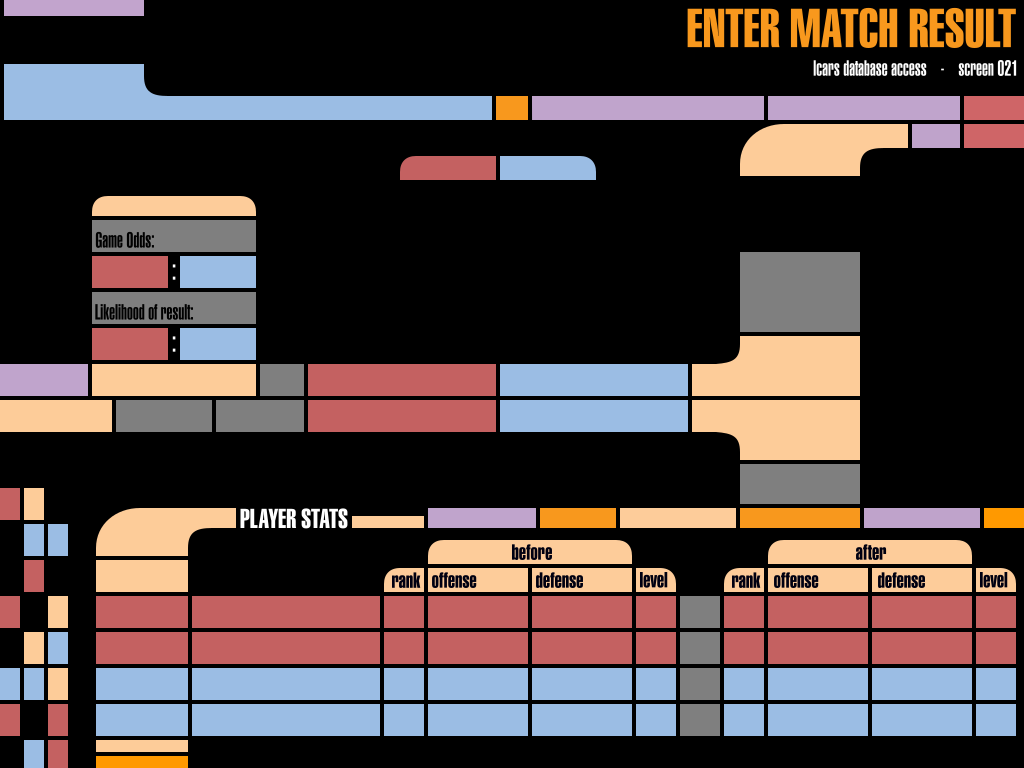
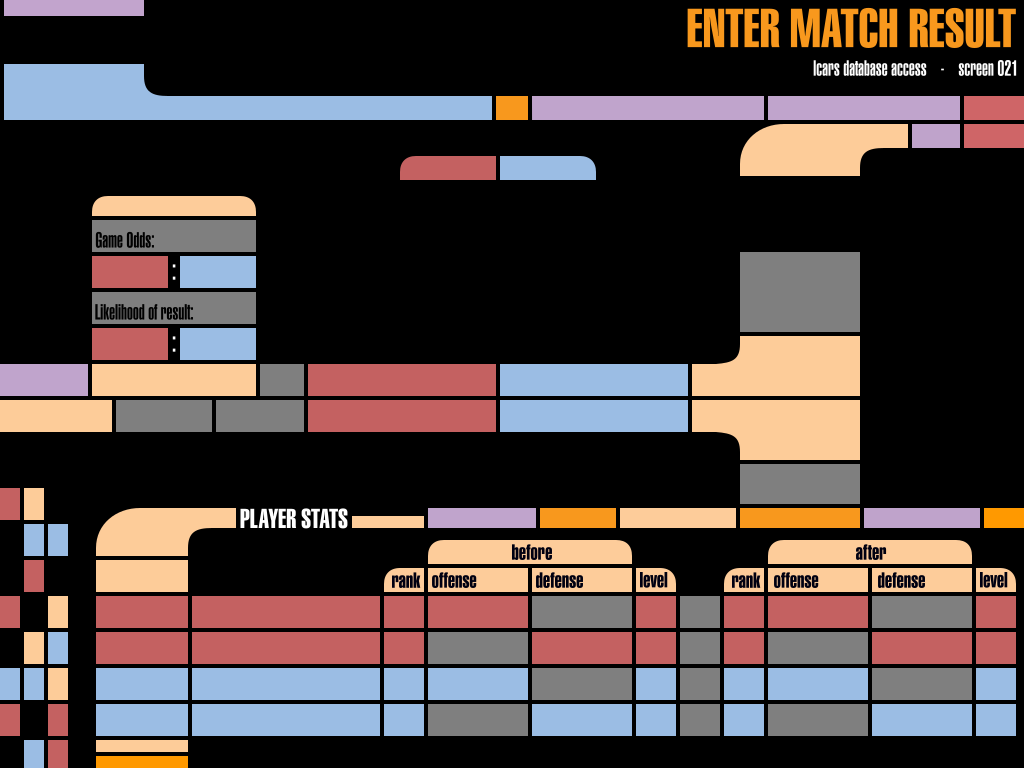
implement split-skill result screen

Changed region(s): [[0.4062, 0.75, 0.625, 0.9688], [0.75, 0.75, 0.9688, 0.9688]]

diff --git a/app/screens/enteroutcome.py b/app/screens/enteroutcome.py
@@ -9,26 +9,11 @@ from pprint import pprint
 import math
 import trueskill
 import time
-from odds import win_probability, odds_texts
+from odds import win_probability, odds_texts, findRank, playerLevel
 
 def pos(x,y):
     return (768-y-32+4, x+4)
 
-def findRank(players, player):
-    ranked = sorted(players.items(), key=lambda kv:trueskill.expose(kv[1]), reverse=True)
-    minindex = len(ranked)
-    maxindex = 0
-    i = 1
-    for name,skill in ranked:
-        if round(trueskill.expose(players[player])) == round(trueskill.expose(skill)): # since we only display rounded skill it is only fair to group by whole numbers
-            minindex = min(minindex, i)
-            maxindex = max(maxindex, i)
-        i += 1
-    if minindex==maxindex:
-        return "{}".format(minindex)
-    else:
-        return "{}-{}".format(minindex,maxindex)
-        
 
 class ScreenEnterOutcome(LcarsScreen):
     def __init__(self, team1, team2):
@@ -125,11 +110,9 @@ class ScreenEnterOutcome(LcarsScreen):
                 continue
             player = players[name]
             self.textLabels[0][j].setText(findRank(players, name))
-            self.textLabels[1][j].setText("{:.2f}/{:.2f}".format(player.mu, player.sigma))
-            self.textLabels[2][j].setText("{:.2f}/{:.2f}".format(player.mu, player.sigma))
-            self.textLabels[3][j].setText("{:d}".format(round(trueskill.expose(player))))
-            
-            
+            self.textLabels[1][j].setText("{:.2f}/{:.2f}".format(player[0].mu, player[0].sigma))
+            self.textLabels[2][j].setText("{:.2f}/{:.2f}".format(player[1].mu, player[1].sigma))
+            self.textLabels[3][j].setText("{:d}".format(round(playerLevel(player))))
         players.close()
         
         
@@ -162,7 +145,21 @@ class ScreenEnterOutcome(LcarsScreen):
 
         players = shelve.open('playerdb')
         
-        newratings = [tuple((players[x] for x in self.team1)), tuple((players[x] for x in self.team2))]
+        #newratings = [tuple((players[x] for x in self.team1)), tuple((players[x] for x in self.team2))]
+        # start with offensive players
+        newratings = [[players[self.team1[0]][0]], [players[self.team2[0]][0]]]
+        # depending on 1v1 or 2v2 add the other or the same as defense
+        if len(self.team1) > 1:
+            newratings[0].append(players[self.team1[1]][1])
+        else:
+            newratings[0].append(players[self.team1[0]][1])
+        if len(self.team2) > 1:
+            newratings[1].append(players[self.team2[1]][1])
+        else:
+            newratings[1].append(players[self.team2[0]][1])
+        newratings[0] = tuple(newratings[0])
+        newratings[1] = tuple(newratings[1])
+        print('initial ratings: ', newratings)
         numdraws = 2 * min(self.team1score, self.team2score)
         numwins = 5 - numdraws
         for i in range(numdraws):
@@ -174,13 +171,18 @@ class ScreenEnterOutcome(LcarsScreen):
         
 
         updated = dict(players.items()) # clone that does not write back
-        updated[self.team1[0]] = newratings[0][0]
-        updated[self.team2[0]] = newratings[1][0]
+        updated[self.team1[0]] = (newratings[0][0], updated[self.team1[0]][1])
+        updated[self.team2[0]] = (newratings[1][0], updated[self.team2[0]][1])
         if len(self.team1)>1:
-            updated[self.team1[1]] = newratings[0][1]
-            updated[self.team2[1]] = newratings[1][1]
+            updated[self.team1[1]] = (updated[self.team1[1]][0], newratings[0][1])
+        else:
+            updated[self.team1[0]] = (updated[self.team1[0]][0], newratings[0][1])
+        if len(self.team2)>1:
+            updated[self.team2[1]] = (updated[self.team2[1]][0], newratings[1][1])
+        else:
+            updated[self.team2[0]] = (updated[self.team2[0]][0], newratings[1][1])
 
-        self.ratingupdate = newratings
+        self.ratingupdate = updated
         for i in range(4):
             team = [self.team1, self.team2][math.floor(i/2)]
             if i%2 >= len(team):
@@ -188,9 +190,9 @@ class ScreenEnterOutcome(LcarsScreen):
             name = team[i%2]
             player = updated[name]
             self.textLabels[4][i].setText(findRank(updated, name))
-            self.textLabels[5][i].setText("{:.2f}/{:.2f}".format(player.mu, player.sigma))
-            self.textLabels[6][i].setText("{:.2f}/{:.2f}".format(player.mu, player.sigma))
-            self.textLabels[7][i].setText("{:d}".format(round(trueskill.expose(player))))
+            self.textLabels[5][i].setText("{:.2f}/{:.2f}".format(player[0].mu, player[0].sigma))
+            self.textLabels[6][i].setText("{:.2f}/{:.2f}".format(player[1].mu, player[1].sigma))
+            self.textLabels[7][i].setText("{:d}".format(round(playerLevel(player))))
             
         players.close()
         
@@ -202,28 +204,38 @@ class ScreenEnterOutcome(LcarsScreen):
         with open('logfile.log', 'a') as log:
             log.write("{}: match played between {} and {}\n".format(time.strftime("%Y-%m-%d %H:%M:%S"), self.team1, self.team2))
             log.write("                   : won by {}\n".format(winningteam))
-            log.write("                   : skill before: {}: {}/{}\n".format(self.team1[0], players[self.team1[0]].mu, players[self.team1[0]].sigma))
-            log.write("                   : skill before: {}: {}/{}\n".format(self.team2[0], players[self.team2[0]].mu, players[self.team2[0]].sigma))
+            log.write("                   : offensive skill before: {}: {}/{}\n".format(self.team1[0], players[self.team1[0]][0].mu, players[self.team1[0]][0].sigma))
+            log.write("                   : defensive skill before: {}: {}/{}\n".format(self.team1[0], players[self.team1[0]][1].mu, players[self.team1[0]][1].sigma))
+            log.write("                   : offensive skill before: {}: {}/{}\n".format(self.team2[0], players[self.team2[0]][0].mu, players[self.team2[0]][0].sigma))
+            log.write("                   : defensive skill before: {}: {}/{}\n".format(self.team2[0], players[self.team2[0]][1].mu, players[self.team2[0]][1].sigma))
             if len(self.team1)>=2:
-                log.write("                   : skill before: {}: {}/{}\n".format(self.team1[1], players[self.team1[1]].mu, players[self.team1[1]].sigma))
+                log.write("                   : offensive skill before: {}: {}/{}\n".format(self.team1[1], players[self.team1[1]][0].mu, players[self.team1[1]][0].sigma))
+                log.write("                   : defensive skill before: {}: {}/{}\n".format(self.team1[1], players[self.team1[1]][1].mu, players[self.team1[1]][1].sigma))
             if len(self.team2)>=2:
-                log.write("                   : skill before: {}: {}/{}\n".format(self.team2[1], players[self.team2[1]].mu, players[self.team2[1]].sigma))
+                log.write("                   : offensive skill before: {}: {}/{}\n".format(self.team2[1], players[self.team2[1]][0].mu, players[self.team2[1]][0].sigma))
+                log.write("                   : defensive skill before: {}: {}/{}\n".format(self.team2[1], players[self.team2[1]][1].mu, players[self.team2[1]][1].sigma))
 
             #self.updatedskills
-            players[self.team1[0]] = self.ratingupdate[0][0]
-            players[self.team2[0]] = self.ratingupdate[1][0]
+            # update offensive skills
+            players[self.team1[0]] = self.ratingupdate[self.team1[0]]
+            players[self.team2[0]] = self.ratingupdate[self.team2[0]]
             if len(self.team1) >= 2:
-                players[self.team1[1]] = self.ratingupdate[0][1]
-                if len(self.team2) >= 2:
-                    players[self.team2[1]] = self.ratingupdate[1][1]
-        
-            log.write("                   : skill after: {}: {}/{}\n".format(self.team1[0], players[self.team1[0]].mu, players[self.team1[0]].sigma))
-            log.write("                   : skill after: {}: {}/{}\n".format(self.team2[0], players[self.team2[0]].mu, players[self.team2[0]].sigma))
+                players[self.team1[1]] = self.ratingupdate[self.team1[1]]
+            if len(self.team2) >= 2:
+                players[self.team2[1]] = self.ratingupdate[self.team2[1]]
+
+            log.write("                   : offensive skill after: {}: {}/{}\n".format(self.team1[0], players[self.team1[0]][0].mu, players[self.team1[0]][0].sigma))
+            log.write("                   : defensive skill after: {}: {}/{}\n".format(self.team1[0], players[self.team1[0]][1].mu, players[self.team1[0]][1].sigma))
+            log.write("                   : offensive skill after: {}: {}/{}\n".format(self.team2[0], players[self.team2[0]][0].mu, players[self.team2[0]][0].sigma))
+            log.write("                   : defensive skill after: {}: {}/{}\n".format(self.team2[0], players[self.team2[0]][1].mu, players[self.team2[0]][1].sigma))
             if len(self.team1)>=2:
-                log.write("                   : skill after: {}: {}/{}\n".format(self.team1[1], players[self.team1[1]].mu, players[self.team1[1]].sigma))
+                log.write("                   : offensive skill after: {}: {}/{}\n".format(self.team1[1], players[self.team1[1]][0].mu, players[self.team1[1]][0].sigma))
+                log.write("                   : defensive skill after: {}: {}/{}\n".format(self.team1[1], players[self.team1[1]][1].mu, players[self.team1[1]][1].sigma))
             if len(self.team2)>=2:
-                log.write("                   : skill after: {}: {}/{}\n".format(self.team2[1], players[self.team2[1]].mu, players[self.team2[1]].sigma))
-            
+                log.write("                   : offensive skill after: {}: {}/{}\n".format(self.team2[1], players[self.team2[1]][0].mu, players[self.team2[1]][0].sigma))
+                log.write("                   : defensive skill after: {}: {}/{}\n".format(self.team2[1], players[self.team2[1]][1].mu, players[self.team2[1]][1].sigma))
+
+                    
         players.close()
         # return to match screen:
         from screens.entermatch import ScreenEnterMatch

diff --git a/app/screens/main.py b/app/screens/main.py
@@ -10,28 +10,9 @@ import shelve
 import trueskill
 import math
 import subprocess
-from odds import win_probability
+from odds import win_probability, findRank, playerLevel
 from datasources.network import get_ip_address_string
 
-
-def playerLevel(player):
-    return trueskill.expose(player[0]) + trueskill.expose(player[1])
-    
-def findRank(players, player):
-    ranked = sorted(players.items(), key=lambda kv:playerLevel(kv[1]), reverse=True)
-    minindex = len(ranked)
-    maxindex = 0
-    i = 1
-    for name,skill in ranked:
-        if round(playerLevel(players[player])) == round(playerLevel(skill)): # since we only display rounded skill it is only fair to group by whole numbers
-            minindex = min(minindex, i)
-            maxindex = max(maxindex, i)
-        i += 1
-    if minindex==maxindex:
-        return "{}".format(minindex)
-    else:
-        return "{}-{}".format(minindex,maxindex)
-        
 
 
 

diff --git a/app/odds.py b/app/odds.py
@@ -56,3 +56,23 @@ odds_texts = [
             ("12:1", 12 / (12 + 1)),
             ("20:1", 20 / (20 + 1)),
             ("1:0", 1 / (1 + 0))]
+
+def playerLevel(player):
+    return trueskill.expose(player[0]) + trueskill.expose(player[1])
+    
+def findRank(players, player):
+    ranked = sorted(players.items(), key=lambda kv:playerLevel(kv[1]), reverse=True)
+    minindex = len(ranked)
+    maxindex = 0
+    i = 1
+    for name,skill in ranked:
+        if round(playerLevel(players[player])) == round(playerLevel(skill)): # since we only display rounded skill it is only fair to group by whole numbers
+            minindex = min(minindex, i)
+            maxindex = max(maxindex, i)
+        i += 1
+    if minindex==maxindex:
+        return "{}".format(minindex)
+    else:
+        return "{}-{}".format(minindex,maxindex)
+        
+

diff --git a/app/screens/entermatch.py b/app/screens/entermatch.py
@@ -363,10 +363,10 @@ class ScreenEnterMatch(LcarsScreen):
         team1 = []
         team2 = []
         # because of the input validator it is already impossible that there are 2 identical players
-        if p0 != '':
-            team1.append(p0)
         if p1 != '':
             team1.append(p1)
+        if p0 != '':
+            team1.append(p0)
         if p2 != '':
             team2.append(p2)
         if p3 != '':

diff --git a/app/dbmigration.py b/app/dbmigration.py
@@ -4,5 +4,6 @@ import shelve
 
 playerdb = shelve.open('playerdb')
 for p in playerdb:
-    playerdb[p] = (playerdb[p], playerdb[p])
+    if type(playerdb[p]) != tuple:
+        playerdb[p] = (playerdb[p], playerdb[p])
 playerdb.close()
